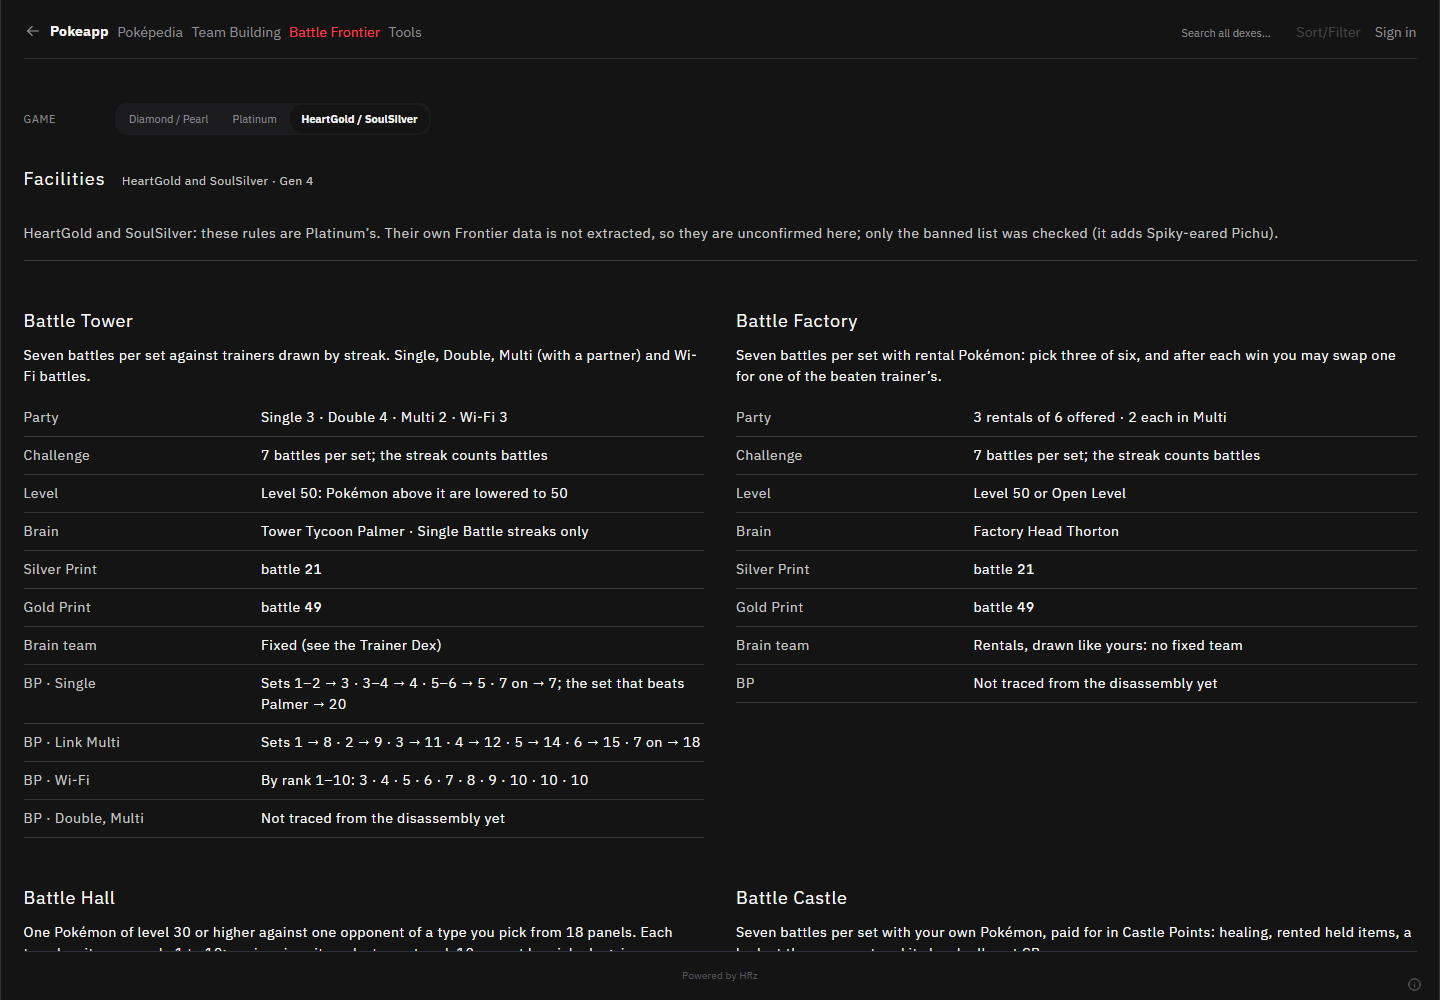
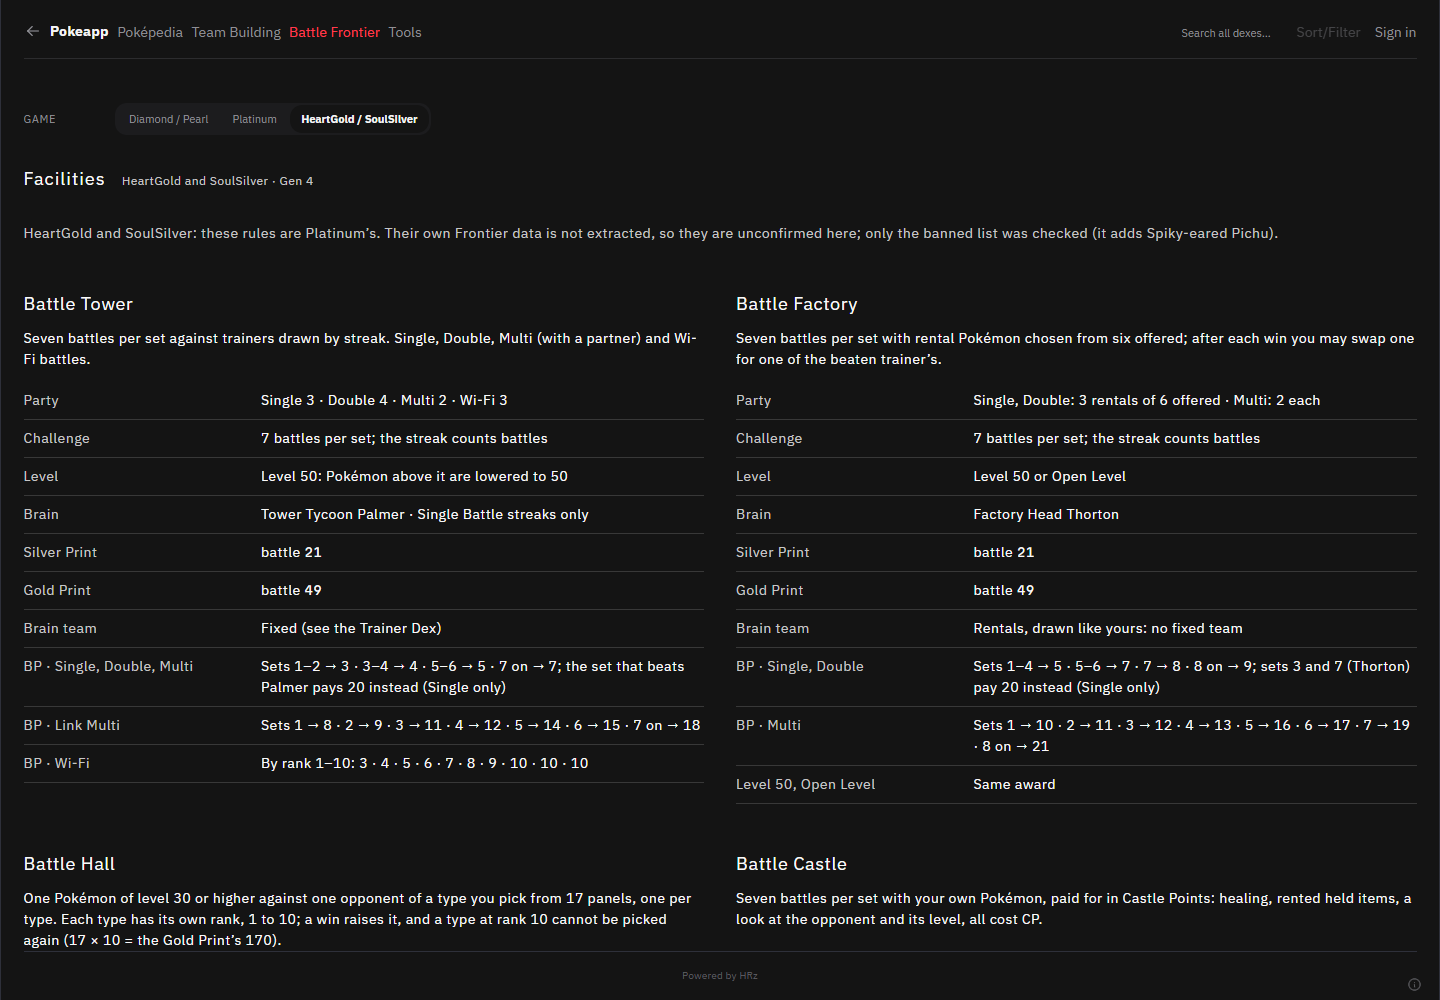
fix(frontier-facility-reference): review findings; every Gen 4 BP table traced
- Battle Points for the Factory, Hall, Castle and Arcade, and the Tower's
  Double and NPC Multi, from pokeplatinum's *_GetEarnedBP and
  BattleTower_GiveBattlePointsReward; a Brain set pays 20 instead (Single).
- Double-battle party is 3 in the Factory, Castle and Arcade (*_helpers.c).
- The Battle Hall has 17 type panels in Gen 4 (no Fairy): 17 x 10 = 170.
- The page grid gets its game track only when the row is shown (no empty
  gap above the head); the HGSS flag drops its hairline (gapped grids).
- Suite: exact "not traced" count (now 0), the cache reset asserted, the
  BP tables and the 17 panels spot-checked, no empty game track.

diff --git a/src/modules/battle-frontier/reference/gen4.ts b/src/modules/battle-frontier/reference/gen4.ts
@@ -25,11 +25,23 @@
  * - pokeheartgold @ 4e9563397ab4e5c407271472935f9e270ac6a804: src/pokemon.c
  *   IsPokemonBannedFromBattleFrontier (the same 18, plus Spiky-eared Pichu).
  * - Bulbapedia (CC; prose only, where the code did not settle it): the entry
- *   requirements, the Tower's level-50 rule, the Hall's type ranks and level
- *   scaling, Castle Points, Thorton's and Argenta's Pokémon.
+ *   requirements, the Tower's level-50 rule, the Factory's swap after a win, the
+ *   Hall's type ranks and level scaling (17 types in Gen 4: no Fairy, so
+ *   HALL_MAX_TYPE_RANK 10 × 17 = the Gold Print's battle 170), Castle Points,
+ *   Thorton's and Argenta's Pokémon.
  *
- * NOT TRACED, AND SAID SO ON SCREEN (never invented): Battle Points for the
- * Factory, Hall, Castle and Arcade, and for the Tower's Double and Multi.
+ * BATTLE POINTS (GEN4_BP): BattleTower_GiveBattlePointsReward (src/battle_tower.c
+ * L706-743: Double and the NPC Multi take the Single table); src/overlay104/
+ * battle_factory.c BattleFactory_GetEarnedBP L527-556 (Lv50 and Open pay the same),
+ * battle_hall.c BattleHall_GetEarnedBP L339-368, battle_castle.c
+ * BattleCastle_GetEarnedBP L706-735, battle_arcade.c BattleArcade_GetEarnedBP
+ * L1318-1347. The script raises the streak, then the round, then reads the table,
+ * so set k pays table[k - 1], repeating the last entry after. A Brain set (Single
+ * only, keyed on the streak) pays 20 INSTEAD. Double party: 3 in the Factory,
+ * Castle and Arcade (*_helpers.c GetPlayerPartySize: DOUBLE shares SINGLE's case).
+ *
+ * NOT TRACED: the Arcade board's free-BP amounts (the screen names its +1 and
+ * +3 squares only).
  *
  * HEARTGOLD/SOULSILVER: every value here is Platinum's. Only the banned list was
  * checked in pokeheartgold; the rest is the flagged "reuses Platinum,
@@ -59,7 +71,41 @@ export interface Gen4Facility {
   bp: [string, string][]
 }
 
-const NOT_TRACED = 'Not traced from the disassembly yet'
+/**
+ * A BP table as runs of equal awards: [3,3,4,4,5,5,7] -> "Sets 1–2 → 3 · 3–4 → 4 ·
+ * 5–6 → 5 · 7 on → 7". The games read `table[set - 1]` and repeat the last entry
+ * from the end of the table on (each GetEarnedBP clamps the round to the table).
+ */
+export function bpRuns(table: readonly number[]): string {
+  const runs: { from: number; to: number; v: number }[] = []
+  table.forEach((v, i) => {
+    const last = runs.at(-1)
+    if (last?.v === v) last.to = i + 1
+    else runs.push({ from: i + 1, to: i + 1, v })
+  })
+  return (
+    'Sets ' +
+    runs
+      .map((r, i) =>
+        i === runs.length - 1 ? `${r.from} on → ${r.v}` : r.from === r.to ? `${r.from} → ${r.v}` : `${r.from}–${r.to} → ${r.v}`,
+      )
+      .join(' · ')
+  )
+}
+
+/** The BP tables (pokeplatinum, per facility; see the header). */
+export const GEN4_BP = {
+  towerSolo: [3, 3, 4, 4, 5, 5, 7],
+  towerLinkMulti: [8, 9, 11, 12, 14, 15, 18],
+  factorySolo: [5, 5, 5, 5, 7, 7, 8, 9],
+  factoryMulti: [10, 11, 12, 13, 16, 17, 19, 21],
+  hallSolo: [1, 1, 1, 2, 2, 2, 3, 3, 3, 4, 4, 6, 6, 8, 8, 10, 10, 12],
+  hallWifiMulti: [6, 6, 6, 8, 8, 8, 10, 10, 10, 12, 12, 14, 15, 17, 17, 20, 20, 23],
+  castleSolo: [3, 3, 4, 4, 5, 5, 7, 7],
+  castleMulti: [8, 9, 11, 12, 14, 15, 18, 18],
+  arcadeSolo: [2, 2, 2, 2, 4, 4, 5, 6],
+  arcadeMulti: [7, 8, 9, 10, 13, 14, 16, 17],
+} as const
 
 export const GEN4_FACILITY_ORDER: readonly Gen4FacilityId[] = ['tower', 'factory', 'hall', 'castle', 'arcade']
 
@@ -77,29 +123,32 @@ export const GEN4_FACILITIES: readonly Gen4Facility[] = [
     brainWhen: 'Single Battle streaks only',
     brainTeam: 'Fixed (see the Trainer Dex)',
     bp: [
-      ['BP · Single', 'Sets 1–2 → 3 · 3–4 → 4 · 5–6 → 5 · 7 on → 7; the set that beats Palmer → 20'],
-      ['BP · Link Multi', 'Sets 1 → 8 · 2 → 9 · 3 → 11 · 4 → 12 · 5 → 14 · 6 → 15 · 7 on → 18'],
+      ['BP · Single, Double, Multi', bpRuns(GEN4_BP.towerSolo) + '; the set that beats Palmer pays 20 instead (Single only)'],
+      ['BP · Link Multi', bpRuns(GEN4_BP.towerLinkMulti)],
       ['BP · Wi-Fi', 'By rank 1–10: 3 · 4 · 5 · 6 · 7 · 8 · 9 · 10 · 10 · 10'],
-      ['BP · Double, Multi', NOT_TRACED],
     ],
   },
   {
     id: 'factory',
     name: 'Battle Factory',
-    rule: 'Seven battles per set with rental Pokémon: pick three of six, and after each win you may swap one for one of the beaten trainer’s.',
-    party: '3 rentals of 6 offered · 2 each in Multi',
+    rule: 'Seven battles per set with rental Pokémon chosen from six offered; after each win you may swap one for one of the beaten trainer’s.',
+    party: 'Single, Double: 3 rentals of 6 offered · Multi: 2 each',
     challenge: '7 battles per set; the streak counts battles',
     level: 'Level 50 or Open Level',
     brain: { title: 'Factory Head', name: 'Thorton' },
     silver: 21,
     gold: 49,
     brainTeam: 'Rentals, drawn like yours: no fixed team',
-    bp: [['BP', NOT_TRACED]],
+    bp: [
+      ['BP · Single, Double', bpRuns(GEN4_BP.factorySolo) + '; sets 3 and 7 (Thorton) pay 20 instead (Single only)'],
+      ['BP · Multi', bpRuns(GEN4_BP.factoryMulti)],
+      ['Level 50, Open Level', 'Same award'],
+    ],
   },
   {
     id: 'hall',
     name: 'Battle Hall',
-    rule: 'One Pokémon of level 30 or higher against one opponent of a type you pick from 18 panels. Each type has its own rank, 1 to 10; a win raises it, and a type at rank 10 cannot be picked again.',
+    rule: 'One Pokémon of level 30 or higher against one opponent of a type you pick from 17 panels, one per type. Each type has its own rank, 1 to 10; a win raises it, and a type at rank 10 cannot be picked again (17 × 10 = the Gold Print’s 170).',
     party: '1 Pokémon, level 30 or higher',
     challenge: '10 battles per set; the streak counts battles',
     level: 'Opponents rise with the type’s rank and with how many types are at rank 2 or higher, up to your Pokémon’s level',
@@ -107,13 +156,17 @@ export const GEN4_FACILITIES: readonly Gen4Facility[] = [
     silver: 50,
     gold: 170,
     brainTeam: 'One Pokémon from your Pokémon’s base-stat group, at its level: no fixed team',
-    bp: [['BP', NOT_TRACED]],
+    bp: [
+      ['BP · Single, Double', bpRuns(GEN4_BP.hallSolo) + '; sets 5 and 17 (Argenta) pay 20 instead (Single only)'],
+      ['BP · Multi', 'Always 12'],
+      ['BP · Wi-Fi Multi', bpRuns(GEN4_BP.hallWifiMulti)],
+    ],
   },
   {
     id: 'castle',
     name: 'Battle Castle',
     rule: 'Seven battles per set with your own Pokémon, paid for in Castle Points: healing, rented held items, a look at the opponent and its level, all cost CP.',
-    party: '3 · 2 each in Multi',
+    party: 'Single, Double 3 · Multi 2 each',
     challenge: '7 battles per set; the streak counts battles',
     level: 'Level 50 cap',
     brain: { title: 'Castle Valet', name: 'Darach' },
@@ -124,13 +177,16 @@ export const GEN4_FACILITIES: readonly Gen4Facility[] = [
       'Castle Points',
       '10 CP when a streak starts; each win pays CP for the HP, PP and Pokémon left (up to 50). Spend them on healing, rented items, the opponent’s team, or its level ±5. Three ranks: healing, rentals, information.',
     ],
-    bp: [['BP', NOT_TRACED]],
+    bp: [
+      ['BP · Single, Double', bpRuns(GEN4_BP.castleSolo) + '; sets 3 and 7 (Darach) pay 20 instead (Single only)'],
+      ['BP · Multi', bpRuns(GEN4_BP.castleMulti)],
+    ],
   },
   {
     id: 'arcade',
     name: 'Battle Arcade',
     rule: 'Seven battles per set. Before each one a game board stops on one of 32 effects that changes the battle.',
-    party: '3 · 2 each in Multi',
+    party: 'Single, Double 3 · Multi 2 each',
     challenge: '7 battles per set; the streak counts battles',
     level: 'Level 50 cap',
     brain: { title: 'Arcade Star', name: 'Dahlia' },
@@ -141,7 +197,10 @@ export const GEN4_FACILITIES: readonly Gen4Facility[] = [
       'Game board',
       '32 effects in 4 groups: to either side (HP lowered, a status, a Berry or item, a level up); the field (sun, rain, sandstorm, hail, fog, Trick Room); and bonuses (cursor speed, a Pokémon swap, +1 or +3 BP, a skipped battle, or no event).',
     ],
-    bp: [['BP', 'The board’s +1 and +3 BP squares; the per-set award is not traced yet']],
+    bp: [
+      ['BP · Single, Double', bpRuns(GEN4_BP.arcadeSolo) + '; sets 3 and 7 (Dahlia) pay 20 instead (Single only)'],
+      ['BP · Multi', bpRuns(GEN4_BP.arcadeMulti)],
+    ],
   },
 ]
 

diff --git a/src/modules/battle-frontier/frontier.css b/src/modules/battle-frontier/frontier.css
@@ -48,7 +48,7 @@
 
 .bf-page {
   display: grid;
-  grid-template-areas: 'game' 'head' 'body';
+  grid-template-areas: 'head' 'body';
   gap: var(--space-8);
   padding: var(--space-6) 0;
   min-width: 0;
@@ -88,15 +88,17 @@
 .bf-game {
   grid-area: game;
 }
+/* Only a page that shows the row gets its track: an empty one would still take a gap. */
+.bf-page:has(> .bf-game) {
+  grid-template-areas: 'game' 'head' 'body';
+}
 /* The Challenge Tracker's screens own their page grid: the row sits above it. */
 .bf-game-out {
   padding-top: var(--space-6);
 }
-/* A flag on the data's provenance: muted prose, a hairline under it. */
+/* A flag on the data's provenance: muted prose (no hairline: it sits in gapped grids). */
 .bf-flag {
   color: var(--color-text-muted);
-  padding-bottom: var(--space-4);
-  border-bottom: var(--border-width-thin) solid var(--color-border-hairline);
 }
 
 /* ------------------------------------------------------------ type */

diff --git a/src/modules/battle-frontier/reference/speed.ts b/src/modules/battle-frontier/reference/speed.ts
@@ -18,7 +18,10 @@
  *   your highest level; TRAINER_TOWER_MAX_TIME 215999; GiveChallengePrize: the
  *   first floor's prize, once per data set; CheckFinalTime: time is a record,
  *   not a prize threshold); src/trainer_tower_sets.c (the prizes).
- * - Bulbapedia (prose): the entry requirements.
+ * - Bulbapedia (prose): the entry requirements; the Hill's "no healing between
+ *   floors". The Hill's own code comment says it cannot be entered before the
+ *   Hall of Fame; GetPrizeItemId's FLAG_SYS_GAME_CLEAR check serves the Japanese
+ *   release, which is not gated, and picks the prize list.
  */
 
 import type { Facility, FacilityTrainer } from '../../../data/trainers'
